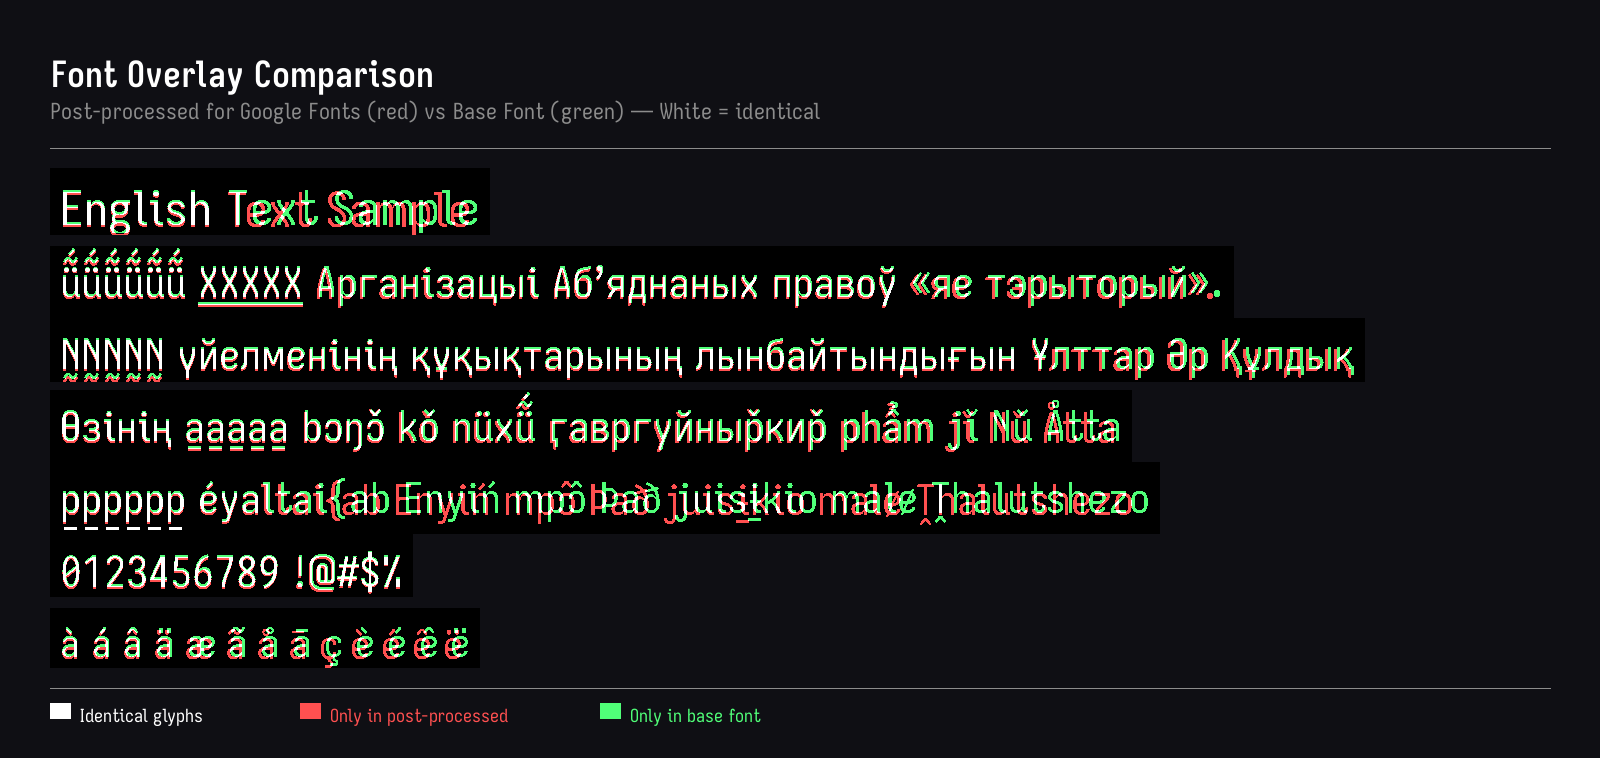
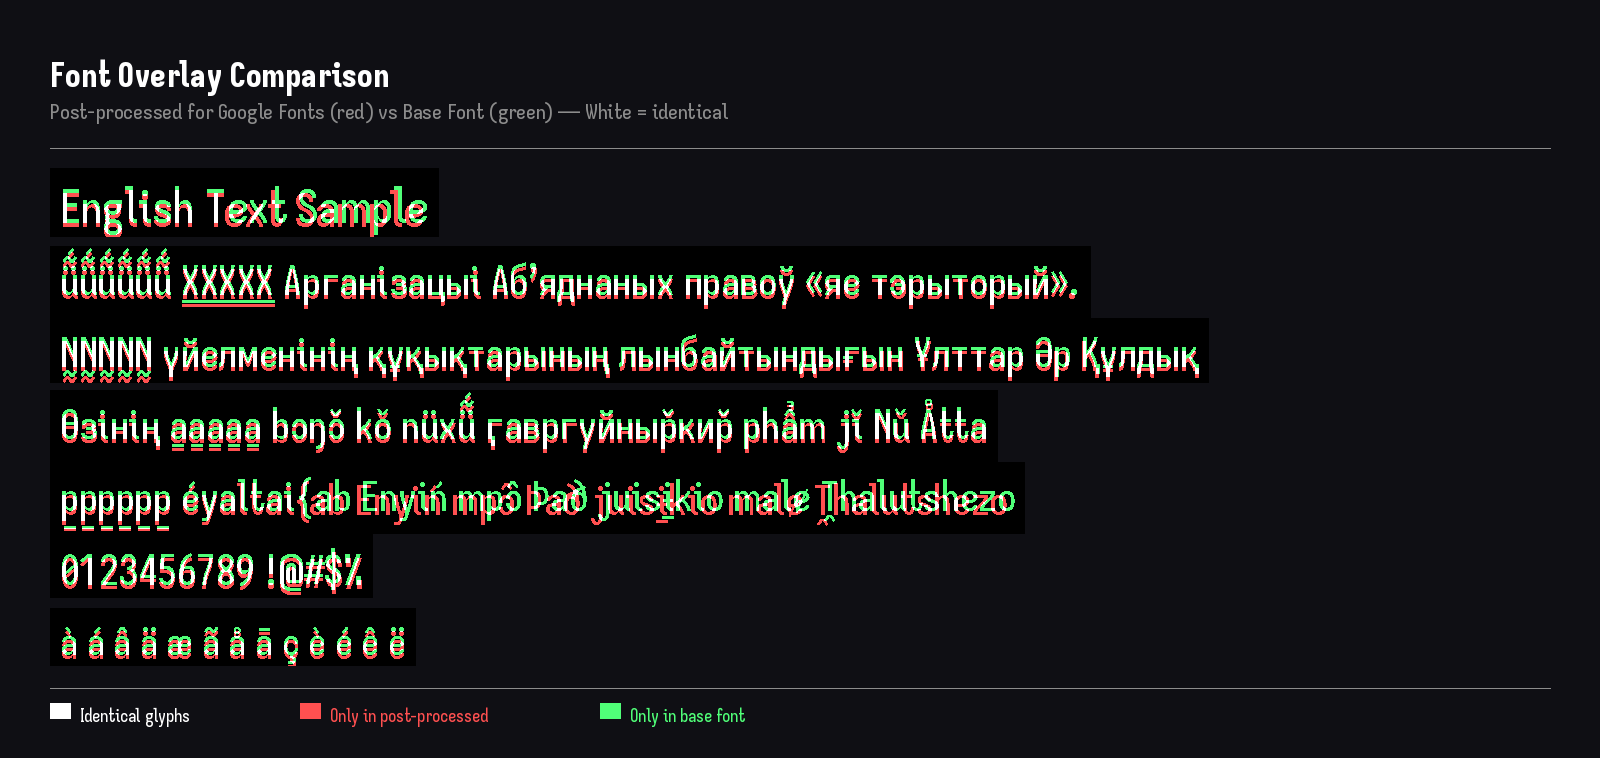
Draw Iosevka Charon to Kerberos's proportions; drop the separate Caleuche families
The Kerberos-matched design becomes the proportional Iosevka Charon itself.
Iosevka Charon Mono is unchanged, and Iosevka Caleuche / Caleuche Mono go away.

Iosevka Charon (proportional), same letterforms as before:
- Kerberos's vertical zones: x-height 461, cap height 703, ascender 748,
  descender -242 (https://github.com/jul-sh/Kerberos)
- width 443, Iosevka's own width-to-x-height ratio
- weights at shapes 300/475/575/850 (was 300/400/500/700), set by eye
  against Kerberos at reading sizes
- 15-degree italic (was 9.4; Kerberos Italic leans about 17)
- Kerberos's line metrics (1016/-345, line height 1.361), underline and
  strikeout; word space 222 set in the build plan; oldstyle zero at
  Kerberos's height

fix_fonts.py keeps the per-family settings: Charon gets the Kerberos-paired
metrics, Charon Mono keeps its exact previous values (byte-identical output).
Specimen images regenerated from the new fonts.

diff --git a/scripts/fix_fonts.py b/scripts/fix_fonts.py
@@ -40,7 +40,7 @@ from autokern import add_auto_kerning
 # Constants
 # ----------------------------------------------------------------------------
 
-# Keep family-wide vertical metrics consistent to satisfy FontBakery family checks.
+# Iosevka Charon Mono's vertical metrics, kept family-wide to satisfy FontBakery family checks.
 # Win metrics must cover glyph bounds (for clipping prevention)
 # but hhea metrics control line spacing (keep tighter like original Iosevka)
 TARGET_WIN_ASCENT = 1198  # Fontspector requires this to cover all glyphs
@@ -53,7 +53,7 @@ TARGET_HHEA_LINE_GAP = 0  # Keep gap at zero for GF compliance
 # Families
 # ----------------------------------------------------------------------------
 # Keyed by build-plan name, which Iosevka uses as the file-name prefix
-# (e.g. "IosevkaCaleuche-BoldItalic.ttf").
+# (e.g. "IosevkaCharonMono-BoldItalic.ttf").
 
 
 @dataclass(frozen=True)
@@ -70,16 +70,17 @@ class FamilySpec:
     reduce_word_spacing: bool = True
 
 
-_CHARON = dict(
+_MONO = dict(
     hhea_ascender=TARGET_HHEA_ASCENDER,
     hhea_descender=TARGET_HHEA_DESCENDER,
     win_ascent=TARGET_WIN_ASCENT,
     win_descent=TARGET_WIN_DESCENT,
 )
-# Iosevka Caleuche pairs with Kerberos, so it takes Kerberos's line metrics, underline
-# and strikeout: the same default line height (1.361), one continuous underline across
-# text and code. Its word space is set in the build plan (advanceScaleSp), not here.
-_CALEUCHE = dict(
+# The proportional Iosevka Charon pairs with Kerberos, so it takes Kerberos's line
+# metrics, underline and strikeout: the same default line height (1.361), one
+# continuous underline across both. Its word space is set in the build plan
+# (advanceScaleSp), not here.
+_KERBEROS_PAIRED = dict(
     hhea_ascender=1016,
     hhea_descender=-345,
     underline=(-120, 75),
@@ -88,10 +89,8 @@ _CALEUCHE = dict(
 )
 
 FAMILIES = {
-    "IosevkaCharon": FamilySpec("Iosevka Charon", **_CHARON),
-    "IosevkaCharonMono": FamilySpec("Iosevka Charon Mono", **_CHARON),
-    "IosevkaCaleuche": FamilySpec("Iosevka Caleuche", **_CALEUCHE),
-    "IosevkaCaleucheMono": FamilySpec("Iosevka Caleuche Mono", **_CALEUCHE),
+    "IosevkaCharon": FamilySpec("Iosevka Charon", **_KERBEROS_PAIRED),
+    "IosevkaCharonMono": FamilySpec("Iosevka Charon Mono", **_MONO),
 }
 
 

diff --git a/README.md b/README.md
@@ -2,21 +2,11 @@
 
 Iosevka Charon is a quasi-proportional font excellent for technical writing and dense UI. Iosevka Charon Mono is a true monospace font tuned for coding and terminal use. These font families are unique derivatives of [Iosevka](https://github.com/be5invis/Iosevka) (an open source font project) by [be5invis](https://github.com/be5invis); built in a manner that makes them Google Fonts compliant.
 
+Iosevka Charon is drawn to pair with [Kerberos](https://github.com/jul-sh/Kerberos), a Dutch-baroque text serif. At the same font size the two share one x-height, cap height, ascender and descender, the same default line height (1.361) and the same underline, and Charon's italic leans 15° to sit with Kerberos's steep italic. Iosevka Charon Mono keeps Iosevka's own proportions.
+
 ![Iosevka Charon specimen](documentation/iosevka-charon.png)
 
 ![Iosevka Charon Mono specimen](documentation/iosevka-charon-mono.png)
-
-## Iosevka Caleuche
-
-Iosevka Caleuche and Iosevka Caleuche Mono are Iosevka Charon re-proportioned to pair with [Kerberos](https://github.com/jul-sh/Kerberos), a Dutch-baroque text serif. The letterforms are Charon's; the proportions are Kerberos's. At the same font size, code and running text share one x-height, cap height, ascender and descender, the same default line height (1.361) and the same underline, and each weight stays just under Kerberos's colour. Italics lean 15° to sit with Kerberos's steep italic. No `font-size` adjustment is needed:
-
-```css
-code, pre { font-family: "Iosevka Caleuche Mono", monospace; }
-```
-
-The name comes from Caleuche Chasma, a canyon on Pluto's moon Charon named after the ghost ship of Chiloé.
-
-![Iosevka Caleuche specimen](documentation/iosevka-caleuche.png)
 
 241 Supported Languages:
 
